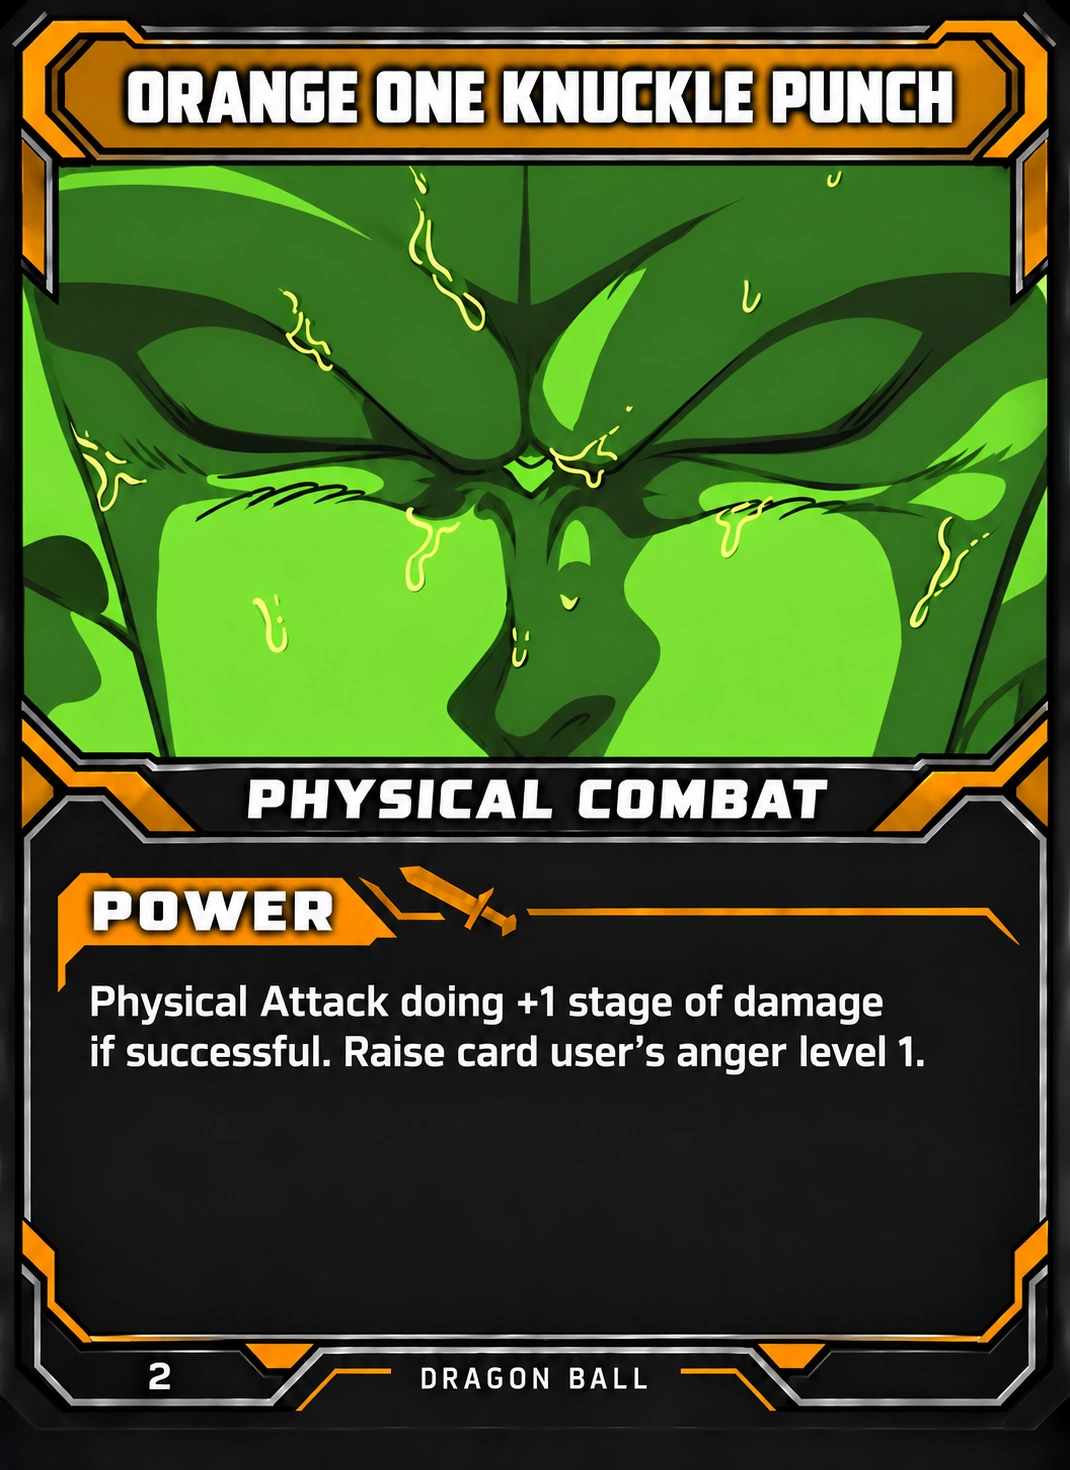
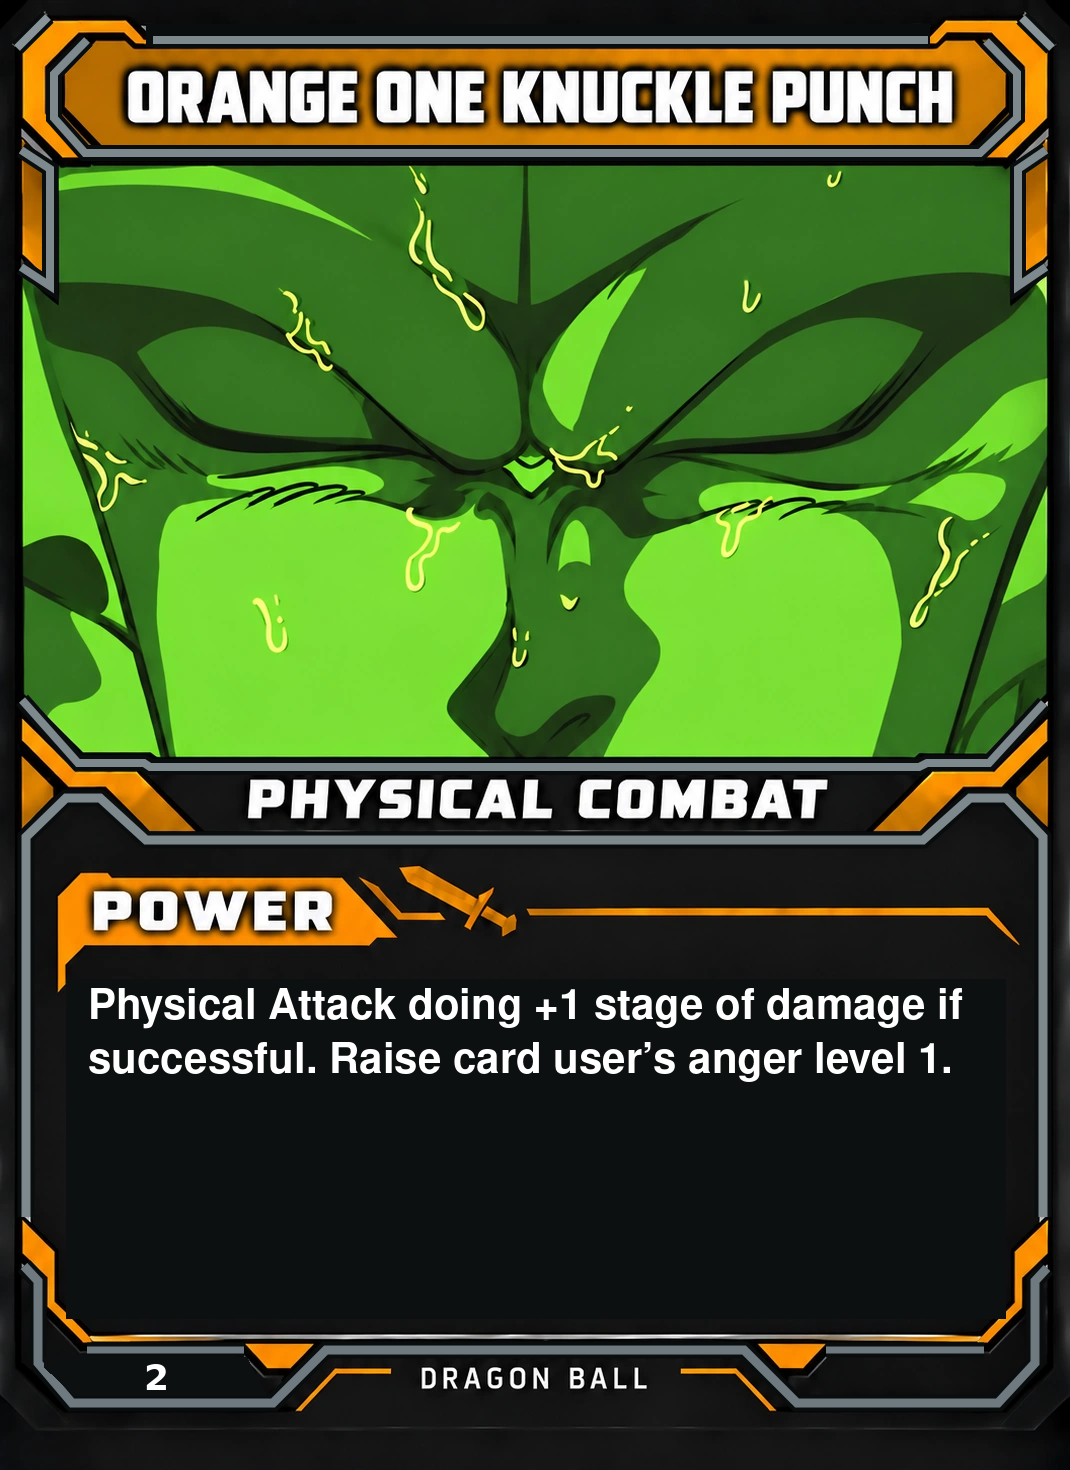
Clean card 1–10 borders with vectors and standardize power text

diff --git a/public/cards/catalog.js b/public/cards/catalog.js
@@ -7,7 +7,7 @@ export const catalog = [
     "style": "Orange",
     "set": "Saiyan Saga",
     "status": "Ready",
-    "image": "/assets/cards/saiyan-001-orange-standing-fist-punch.webp?v=9e4fa3d806",
+    "image": "/assets/cards/saiyan-001-orange-standing-fist-punch.webp?v=f5993129ac",
     "source": "https://retrodbzccg.com/card-images/saiyan-saga-commons/"
   },
   {
@@ -18,7 +18,7 @@ export const catalog = [
     "style": "Orange",
     "set": "Saiyan Saga",
     "status": "Ready",
-    "image": "/assets/cards/saiyan-002-orange-one-knuckle-punch.webp?v=188a578c99",
+    "image": "/assets/cards/saiyan-002-orange-one-knuckle-punch.webp?v=71f3e695c7",
     "source": "https://retrodbzccg.com/card-images/saiyan-saga-commons/"
   },
   {
@@ -29,7 +29,7 @@ export const catalog = [
     "style": "Orange",
     "set": "Saiyan Saga",
     "status": "Ready",
-    "image": "/assets/cards/saiyan-003-orange-two-knuckle-punch.webp?v=7c059bea7e",
+    "image": "/assets/cards/saiyan-003-orange-two-knuckle-punch.webp?v=194fb40f8b",
     "source": "https://retrodbzccg.com/card-images/saiyan-saga-commons/"
   },
   {
@@ -40,7 +40,7 @@ export const catalog = [
     "style": "Orange",
     "set": "Saiyan Saga",
     "status": "Ready",
-    "image": "/assets/cards/saiyan-004-orange-leg-sweep.webp?v=9e00d10b5d",
+    "image": "/assets/cards/saiyan-004-orange-leg-sweep.webp?v=b435ff1c82",
     "source": "https://retrodbzccg.com/card-images/saiyan-saga-commons/"
   },
   {
@@ -51,7 +51,7 @@ export const catalog = [
     "style": "Orange",
     "set": "Saiyan Saga",
     "status": "Ready",
-    "image": "/assets/cards/saiyan-005-orange-arm-bar.webp?v=a3cca9ff50",
+    "image": "/assets/cards/saiyan-005-orange-arm-bar.webp?v=4fcb4edc9e",
     "source": "https://retrodbzccg.com/card-images/saiyan-saga-commons/"
   },
   {
@@ -62,7 +62,7 @@ export const catalog = [
     "style": "Red",
     "set": "Saiyan Saga",
     "status": "Ready",
-    "image": "/assets/cards/saiyan-006-red-lunge-punch.webp?v=73e882a652",
+    "image": "/assets/cards/saiyan-006-red-lunge-punch.webp?v=c1a9a8d8ad",
     "source": "https://retrodbzccg.com/card-images/saiyan-saga-commons/"
   },
   {
@@ -73,7 +73,7 @@ export const catalog = [
     "style": "Red",
     "set": "Saiyan Saga",
     "status": "Ready",
-    "image": "/assets/cards/saiyan-007-red-reverse-punch.webp?v=da5c10bb07",
+    "image": "/assets/cards/saiyan-007-red-reverse-punch.webp?v=8481619a38",
     "source": "https://retrodbzccg.com/card-images/saiyan-saga-commons/"
   },
   {
@@ -84,7 +84,7 @@ export const catalog = [
     "style": "Red",
     "set": "Saiyan Saga",
     "status": "Ready",
-    "image": "/assets/cards/saiyan-008-red-knife-hand.webp?v=6430c7cc5a",
+    "image": "/assets/cards/saiyan-008-red-knife-hand.webp?v=60c4d5120b",
     "source": "https://retrodbzccg.com/card-images/saiyan-saga-commons/"
   },
   {
@@ -95,7 +95,7 @@ export const catalog = [
     "style": "Red",
     "set": "Saiyan Saga",
     "status": "Ready",
-    "image": "/assets/cards/saiyan-009-red-palm-heel-strike.webp?v=68f76cd673",
+    "image": "/assets/cards/saiyan-009-red-palm-heel-strike.webp?v=46c3fd7984",
     "source": "https://retrodbzccg.com/card-images/saiyan-saga-commons/"
   },
   {
@@ -106,7 +106,7 @@ export const catalog = [
     "style": "Red",
     "set": "Saiyan Saga",
     "status": "Ready",
-    "image": "/assets/cards/saiyan-010-red-elbow-strike.webp?v=1967c5640d",
+    "image": "/assets/cards/saiyan-010-red-elbow-strike.webp?v=8d16032efc",
     "source": "https://retrodbzccg.com/card-images/saiyan-saga-commons/"
   },
   {
